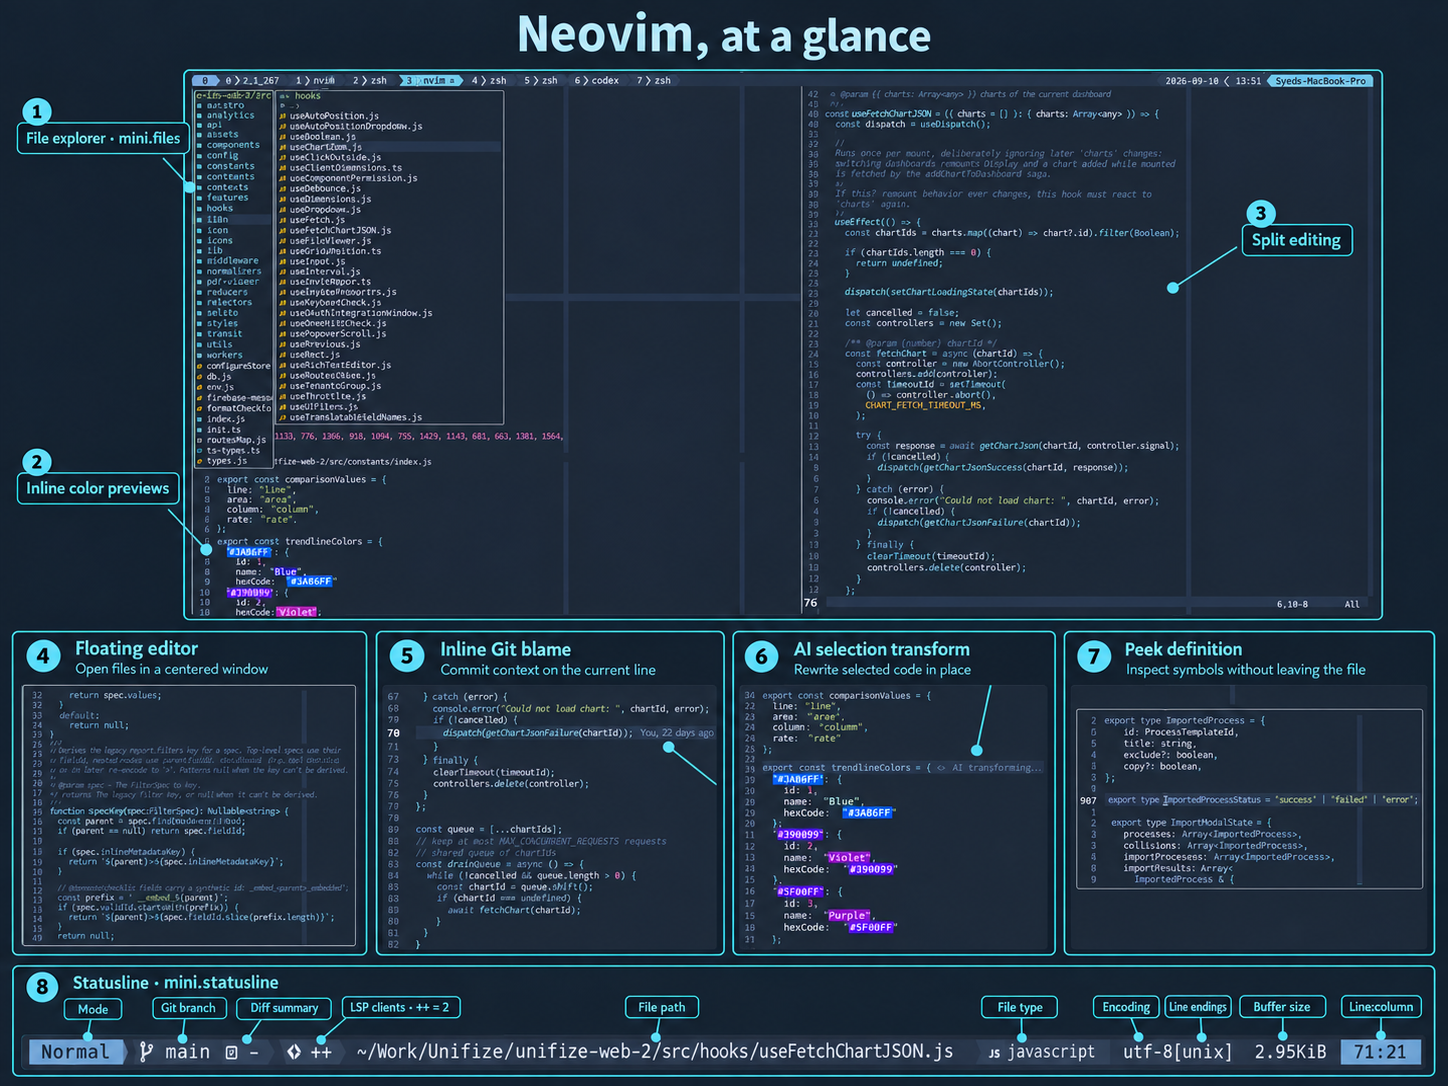
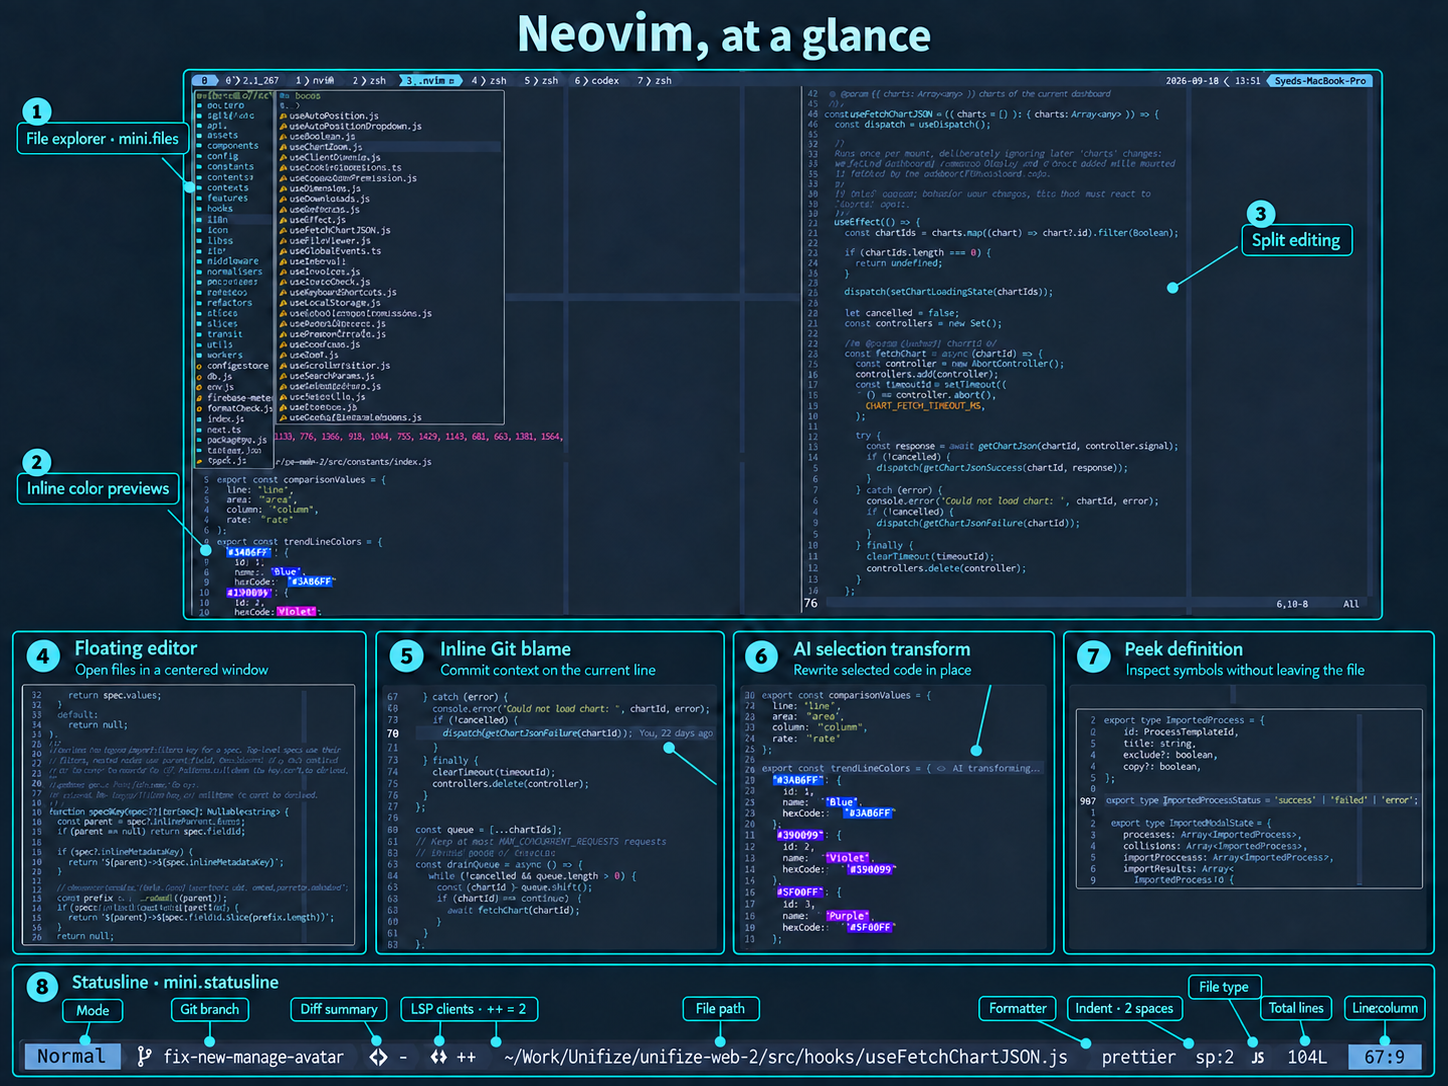
nvim - change statusline

diff --git a/README.md b/README.md
@@ -1,6 +1,6 @@
 # Syed's Dotfiles
 
-[![Neovim setup showing the mini.files explorer, inline color previews, split editing, floating editor, inline Git blame, AI selection transform, definition preview, and a labeled statusline with mode, Git branch, diff summary, LSP clients, file path, file type, encoding, line endings, buffer size, and line:column](docs/images/neovim-overview.png)](docs/images/neovim-overview.png)
+[![Neovim setup showing the mini.files explorer, inline color previews, split editing, floating editor, inline Git blame, AI selection transform, definition preview, and a labeled statusline with mode, Git branch, diff summary, LSP clients, file path, formatter, indentation, file type, total lines, and line:column](docs/images/neovim-overview.png)](docs/images/neovim-overview.png)
 
 ## My Neovim Cheatsheet
 
